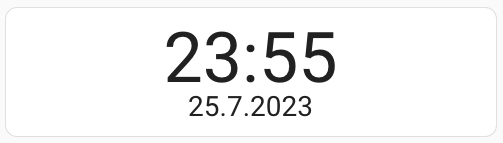
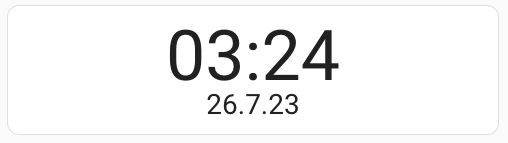
features + docs + fixes

diff --git a/simpleDateTimeClockCard.js b/simpleDateTimeClockCard.js
@@ -41,6 +41,8 @@ class SimpleDateTimeClockCard extends HTMLElement
             function getTime(today)
             {
                 let time_show = config.time_show !== undefined ? config.time_show : true;
+                let time_separator_char = config.time_separator_char !== undefined ? config.time_separator_char : ":";
+                let time_separator_blink = config.time_separator_blink !== undefined ? config.time_separator_blink : false;
                 let time_hours_24 = config.time_hours_24 !== undefined ? config.time_hours_24 : true;
                 let time_hours_lead_zero = config.time_hours_lead_zero !== undefined ? config.time_hours_lead_zero : true;
                 let time_minutes_lead_zero = config.time_minutes_lead_zero !== undefined ? config.time_minutes_lead_zero : true;
@@ -48,8 +50,6 @@ class SimpleDateTimeClockCard extends HTMLElement
                 let time_seconds_lead_zero = config.time_seconds_lead_zero !== undefined ? config.time_seconds_lead_zero : true;
                 let time_seconds_font_size = config.time_seconds_font_size !== undefined ? config.time_seconds_font_size : config.time_font_size;
                 let time_seconds_visibility_percentage = config.time_seconds_visibility_percentage !== undefined ? config.time_seconds_visibility_percentage : "100%";
-                let time_seperator_char = config.time_seperator !== undefined ? config.time_seperator : ":";
-                let time_seperator_blink = config.time_seperator_blink !== undefined ? config.time_seperator_blink : false;
 
                 if(!time_show) return "";
 
@@ -62,11 +62,16 @@ class SimpleDateTimeClockCard extends HTMLElement
                 m = time_minutes_lead_zero ? addZero(m) : m;
                 s = time_seconds_lead_zero ? addZero(s) : s;
 
-                let time_seperator_char_current = s % 2 == 0 || !time_seperator_blink ? time_seperator_char : " ";
+                let time_separator_char_current = s % 2 == 0 || !time_separator_blink ? time_separator_char : " ";
 
-                let time_str = 
-                (time_hours_24 ? h : ((h + 11) % 12) + 1 ) + // HOUR
-                time_seperator_char_current + m; // MINUTE
+                let time_str = h;
+                // HOUR
+                if(!time_hours_24 && h >= 13)
+                {
+                    time_str = h - 12;
+                }
+                
+                time_str += time_separator_char_current + m; // MINUTE
 
                 if(time_seconds_show) // SECONDS
                 {
@@ -78,11 +83,11 @@ class SimpleDateTimeClockCard extends HTMLElement
                     time_str += "color: color-mix(in srgb, " + foregroundColor + " " + time_seconds_visibility_percentage + ", " + backgroundColor + ");"
 
                     time_str += "\">";
-                    time_str += time_seperator_char_current + s;
+                    time_str += time_separator_char_current + s;
                     time_str += "</span>";
                 }
 
-                (time_hours_24 ? "" : " " + p ); // AM/PM
+                time_str += (time_hours_24 ? "" : " " + p ); // AM/PM
 
                 return time_str;
             }
@@ -91,7 +96,7 @@ class SimpleDateTimeClockCard extends HTMLElement
             {
                 let date_show = config.date_show !== undefined ? config.date_show : true;
                 let date_locale = config.date_locale !== undefined ? config.date_locale : "en-US";
-                let date_seperator_char = config.date_seperator_char !== undefined ? config.date_seperator_char : ".";
+                let date_separator_char = config.date_separator_char !== undefined ? config.date_separator_char : ".";
                 let date_us_format = config.date_us_format !== undefined ? config.date_us_format : false;
                 let date_week_day_name_show = config.date_week_day_name_show !== undefined ? config.date_week_day_name_show : true;
                 let date_week_day_name_long = config.date_week_day_name_long !== undefined ? config.date_week_day_name_long : false;
@@ -111,11 +116,11 @@ class SimpleDateTimeClockCard extends HTMLElement
 
                 d = date_days_lead_zero ? addZero(d) : d;
                 m = date_months_lead_zero ? addZero(m) : m;
-                y = date_year_two_digit ? y.subString(2) : y;
+                y = date_year_two_digit ? y.toString().substring(2) : y;
 
                 let date_str = 
                 (date_week_day_name_show ? wn + " " : "") + // WeekDayName
-                (date_us_format ? m + date_seperator_char + d + date_seperator_char : d + date_seperator_char + m + date_seperator_char) + 
+                (date_us_format ? m + date_separator_char + d + date_separator_char : d + date_separator_char + m + date_separator_char) + 
                 y +
                 (date_week_number_show ? " " + date_week_number_label + w : ""); // KW
 

diff --git a/README.md b/README.md
@@ -24,8 +24,8 @@ Currently there are 29 or more properties. But don't worry, you don't need to se
 |--|--|--|--|
 | `time_show` | `bool` | `true` | Sets the visibility of the time |
 | `time_font_size` | `string` | `5em` | Size of the text of the time. Unit is up to you |
-| `time_seperator_char` | `string` | `:` | Sets the char that is displayed between the hours and minutes or minutes and seconds |
-| `time_seperator_blink` | `bool` | `false` | Let the `time_seperator_char` blink each second. Could also be usefull if seconds aren't displayed |
+| `time_separator_char` | `string` | `:` | Sets the char that is displayed between the hours and minutes or minutes and seconds |
+| `time_separator_blink` | `bool` | `false` | Let the `time_separator_char` blink each second. Could also be usefull if seconds aren't displayed |
 | `time_hours_24` | `bool` | `true` | Enables or disables the clock in 24h style. Else it would be 12h with AM/PM |
 | `time_hours_lead_zero` | `bool` | `true` | Forces the value to two digits: 9 -> 09 |
 | `time_minutes_lead_zero` | `bool` | `true` | Forces the value to two digits: 9 -> 09 |
@@ -41,7 +41,7 @@ Currently there are 29 or more properties. But don't worry, you don't need to se
 |--|--|--|--|
 | `date_show` | `bool` | `true` | Sets the visibility of the date |
 | `date_locale` | `string` | `en-US` | The locale is used to translate the name of the week. See `date_week_day_name_show` |
-| `date_seperator_char` | `string` | `.` | Sets the char that is displayed between the day and the month or the month and the year |
+| `date_separator_char` | `string` | `.` | Sets the char that is displayed between the day and the month or the month and the year |
 | `date_font_size` | `string` | `2em` | Size of the text of the date. Unit is up to you |
 | `date_us_format` | `bool` | `false` | Sets the date format to us(MM.DD.YYYY) insteat the eu/default(DD.MM.YYYY) format |
 | `date_days_lead_zero` | `bool` | `true` | Forces the value to two digits: 9 -> 09 |
@@ -69,6 +69,15 @@ Currently there are 29 or more properties. But don't worry, you don't need to se
     type: custom:simple-date-time-clock-card
 
 
+### US
+![Header image to show a sample of this card](img/us-config.png)
+
+    type: custom:simple-date-time-clock-card
+    date_us_format: true
+    date_seperator_char: /
+    time_hours_24: false
+
+
 ### Minimal UI
 ![Header image to show a sample of this card](img/minimal-ui-config.png)
 
@@ -76,6 +85,7 @@ Currently there are 29 or more properties. But don't worry, you don't need to se
     time_hours_24: true
     time_seconds_show: false
     date_week_day_name_show: false
+    date_year_two_digit: true
 
 
 ### Just the Clock
@@ -96,8 +106,13 @@ Currently there are 29 or more properties. But don't worry, you don't need to se
     date_week_day_name_show: true
 
 
-## ToDo
+### Separators
+![Header image to show a sample of this card](img/separators-config.png)
+Please note, that for some special chars you need to place them in ''
 
- 1. Sample with us date format
- 2. Sample for time/date seperators
- 3. Sample for two digit year
+    type: custom:simple-date-time-clock-card
+    time_separator_char: '-'
+    date_separator_char: +
+
+
+## ToDo
